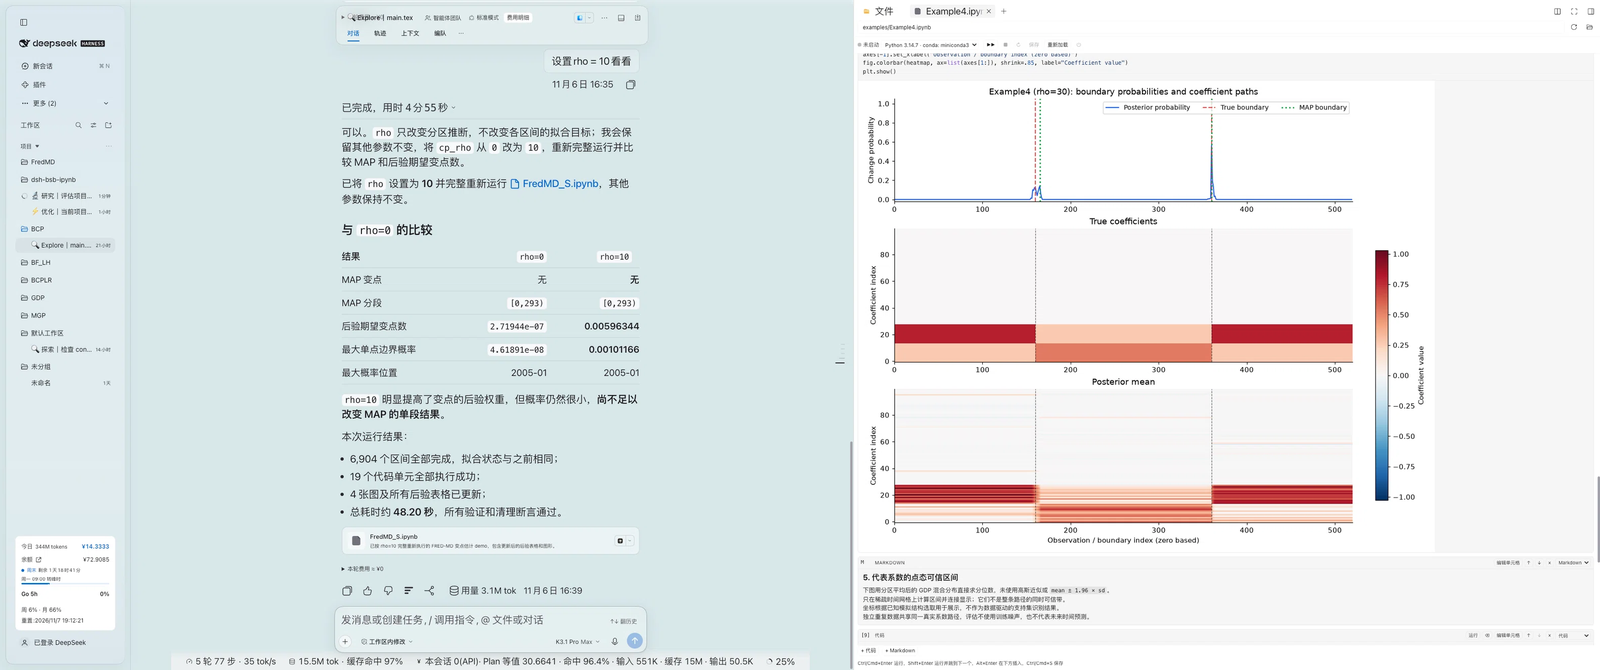
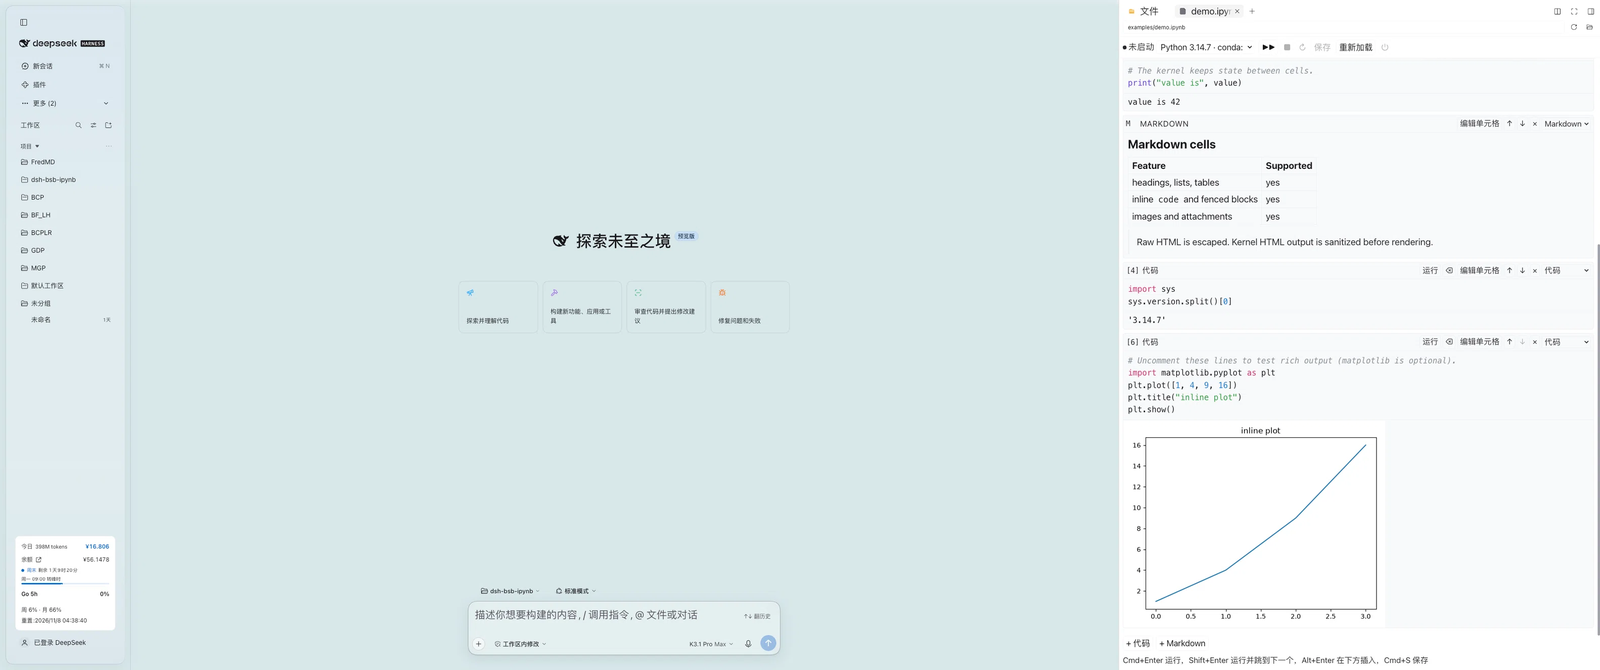
Refresh the README screenshot
Replace the screenshot with a current capture showing markdown cells
(table, fenced code support), executed code cells with outputs and an
inline matplotlib plot inside the Better Sidebar notebook view. Scaled
from the 3165x1325 source to the existing 1600x670 framing (PNG,
382 KB -> 206 KB) and updated the en/zh alt text to describe it.

diff --git a/README.md b/README.md
@@ -24,7 +24,7 @@
 `dsh-bsb-ipynb` is a [DSH Better Sidebar](https://github.com/dong-victor/dsh-better-sidebar) plugin that turns the sidebar's file tree into a Jupyter notebook workspace. Click any `.ipynb` to read, edit, run and save it as you would in Jupyter. Kernels run in the host process through `jupyter_client` + `ipykernel`, so nothing Python-related runs in the browser and there is no build step.
 
 <p align="center">
-  <img src="docs/screenshot.png" width="100%" alt="A notebook rendered inside the DSH Better Sidebar">
+  <img src="docs/screenshot.png" width="100%" alt="A notebook in the DSH Better Sidebar: markdown cells, executed code cells and an inline matplotlib plot">
 </p>
 
 ## ✨ Features

diff --git a/README_ZH.md b/README_ZH.md
@@ -24,7 +24,7 @@
 `dsh-bsb-ipynb` 是一个 [DSH Better Sidebar](https://github.com/dong-victor/dsh-better-sidebar) 插件，把侧边栏文件树变成可用的 Jupyter Notebook 工作区：点开任意 `.ipynb` 即可阅读、编辑、运行并保存，操作体验与 Jupyter 一致。内核由宿主进程通过 `jupyter_client` + `ipykernel` 启动，浏览器端不运行 Python，也无需构建。
 
 <p align="center">
-  <img src="docs/screenshot.png" width="100%" alt="在 DSH Better Sidebar 中渲染的 Jupyter Notebook">
+  <img src="docs/screenshot.png" width="100%" alt="在 DSH Better Sidebar 中打开的 Notebook：Markdown、已执行代码与内联 matplotlib 图">
 </p>
 
 ## ✨ 特性
